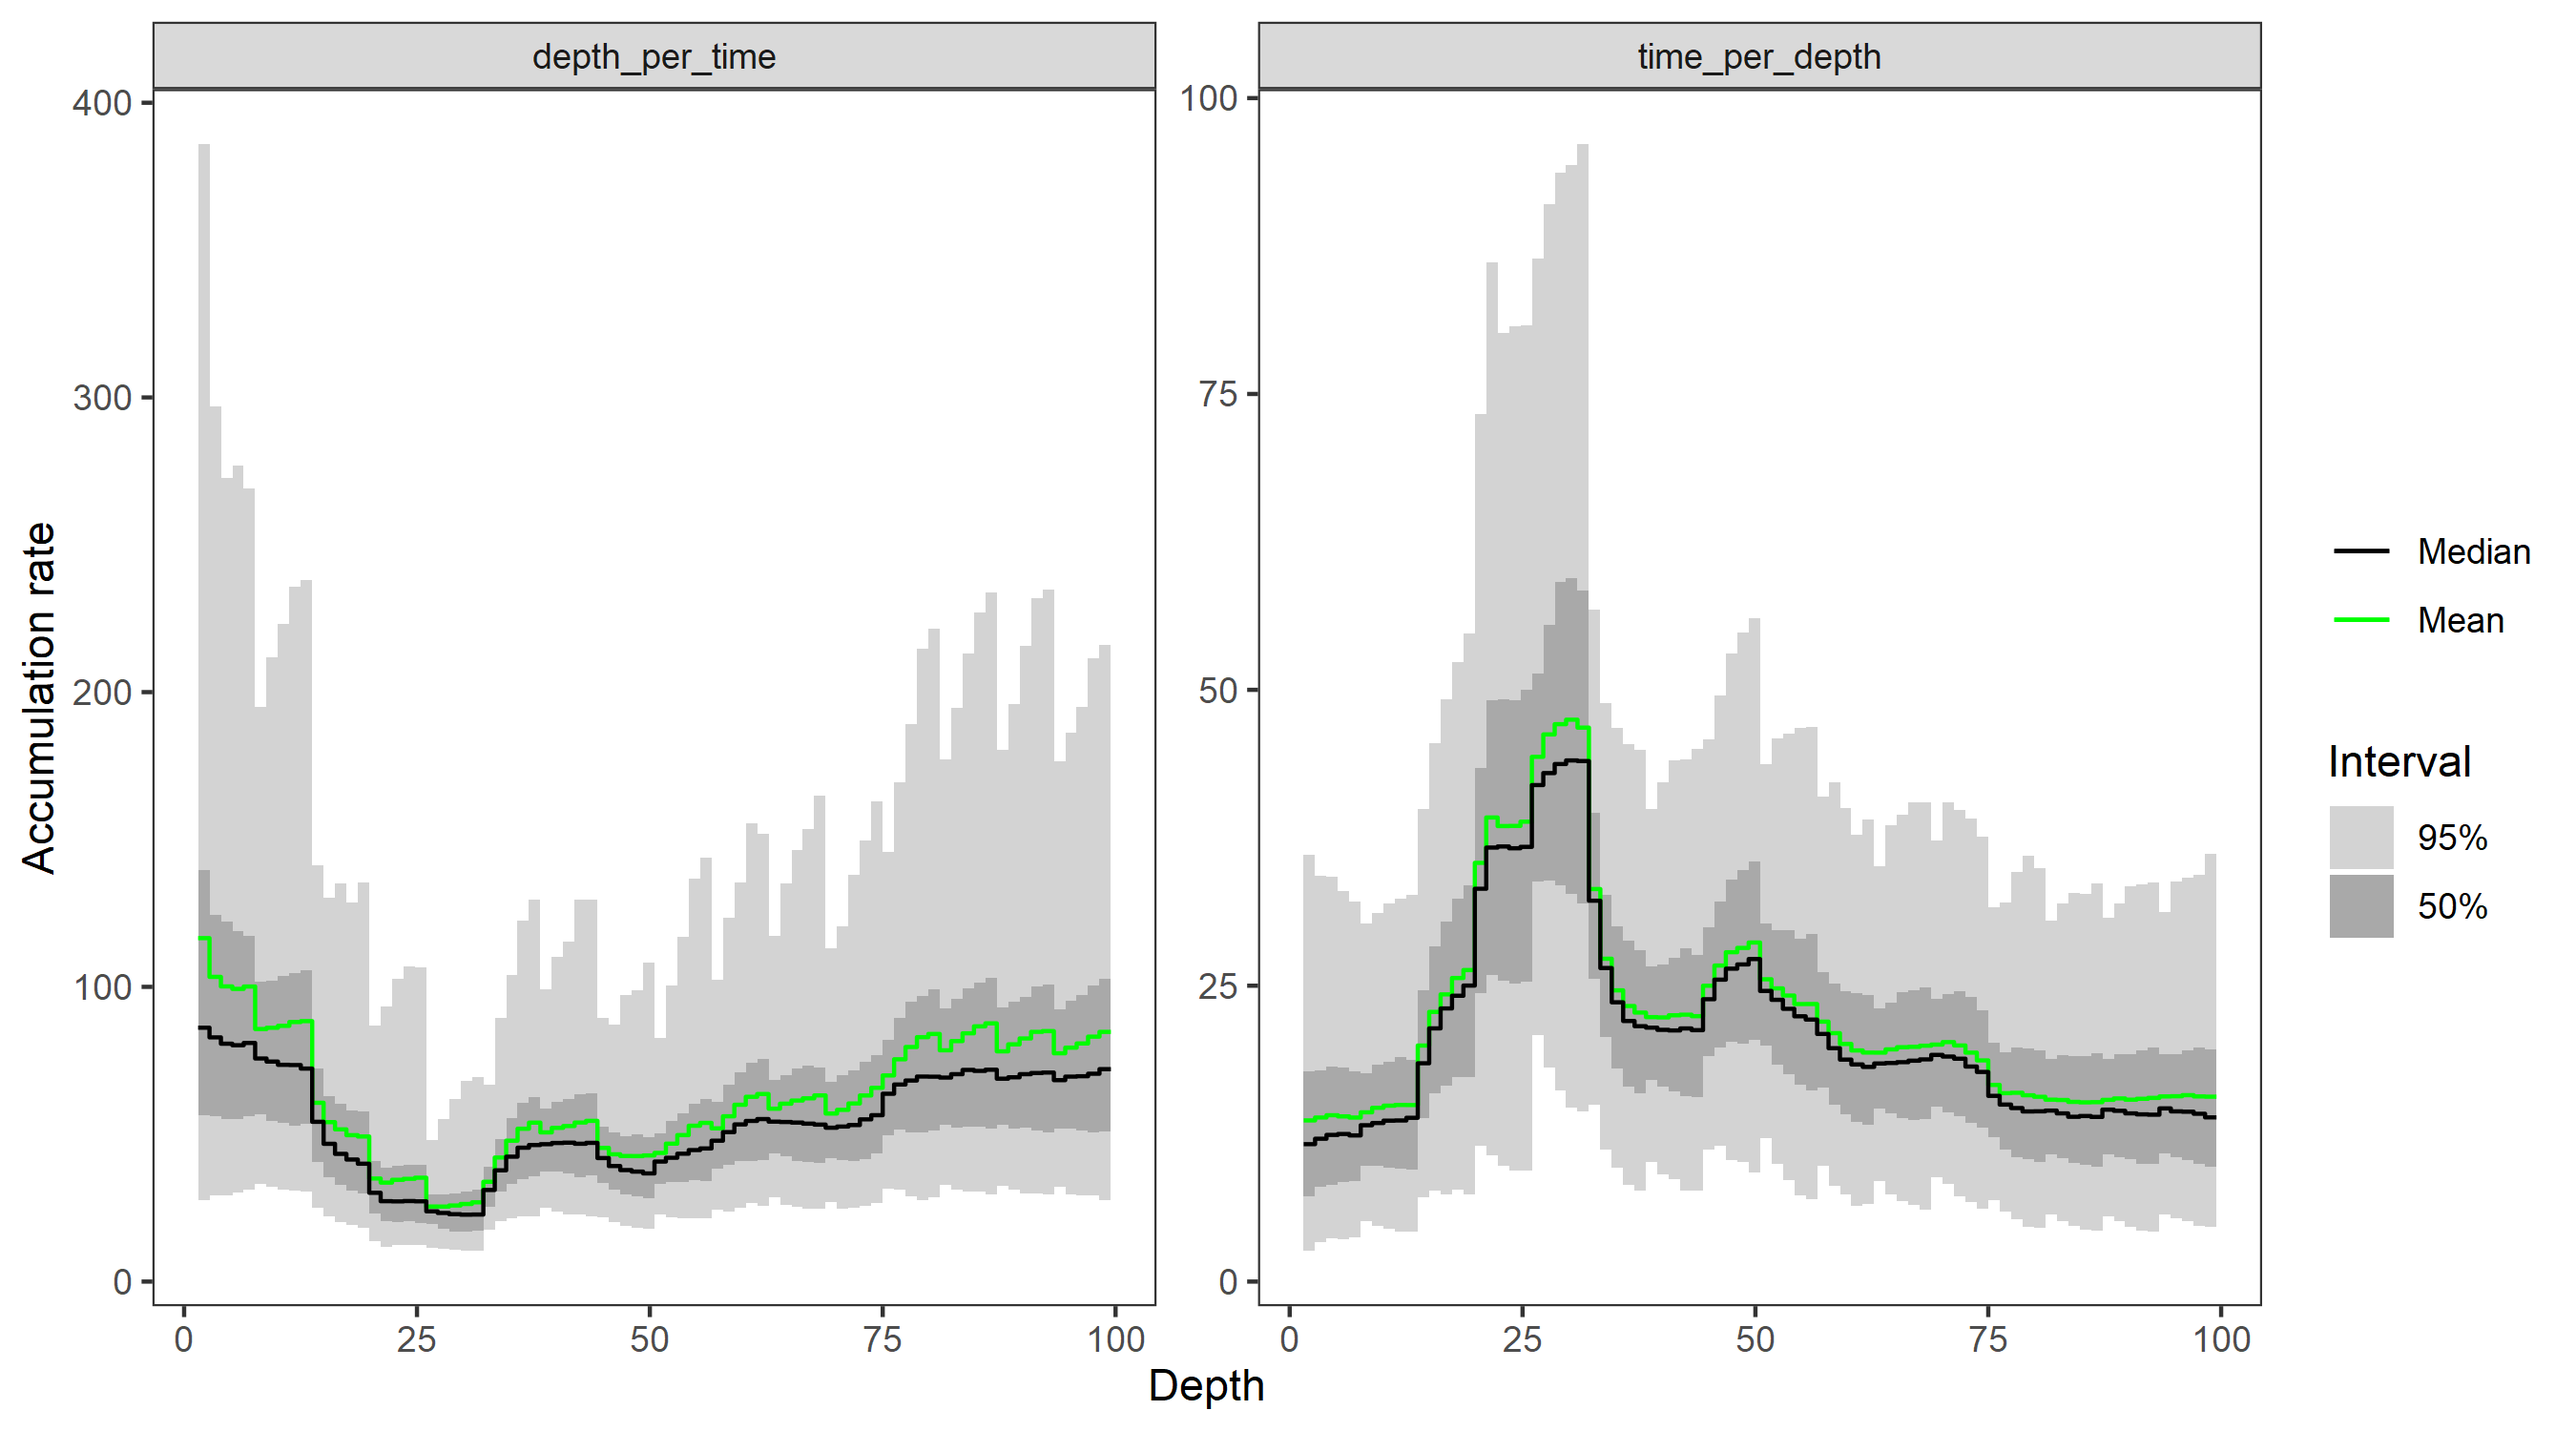
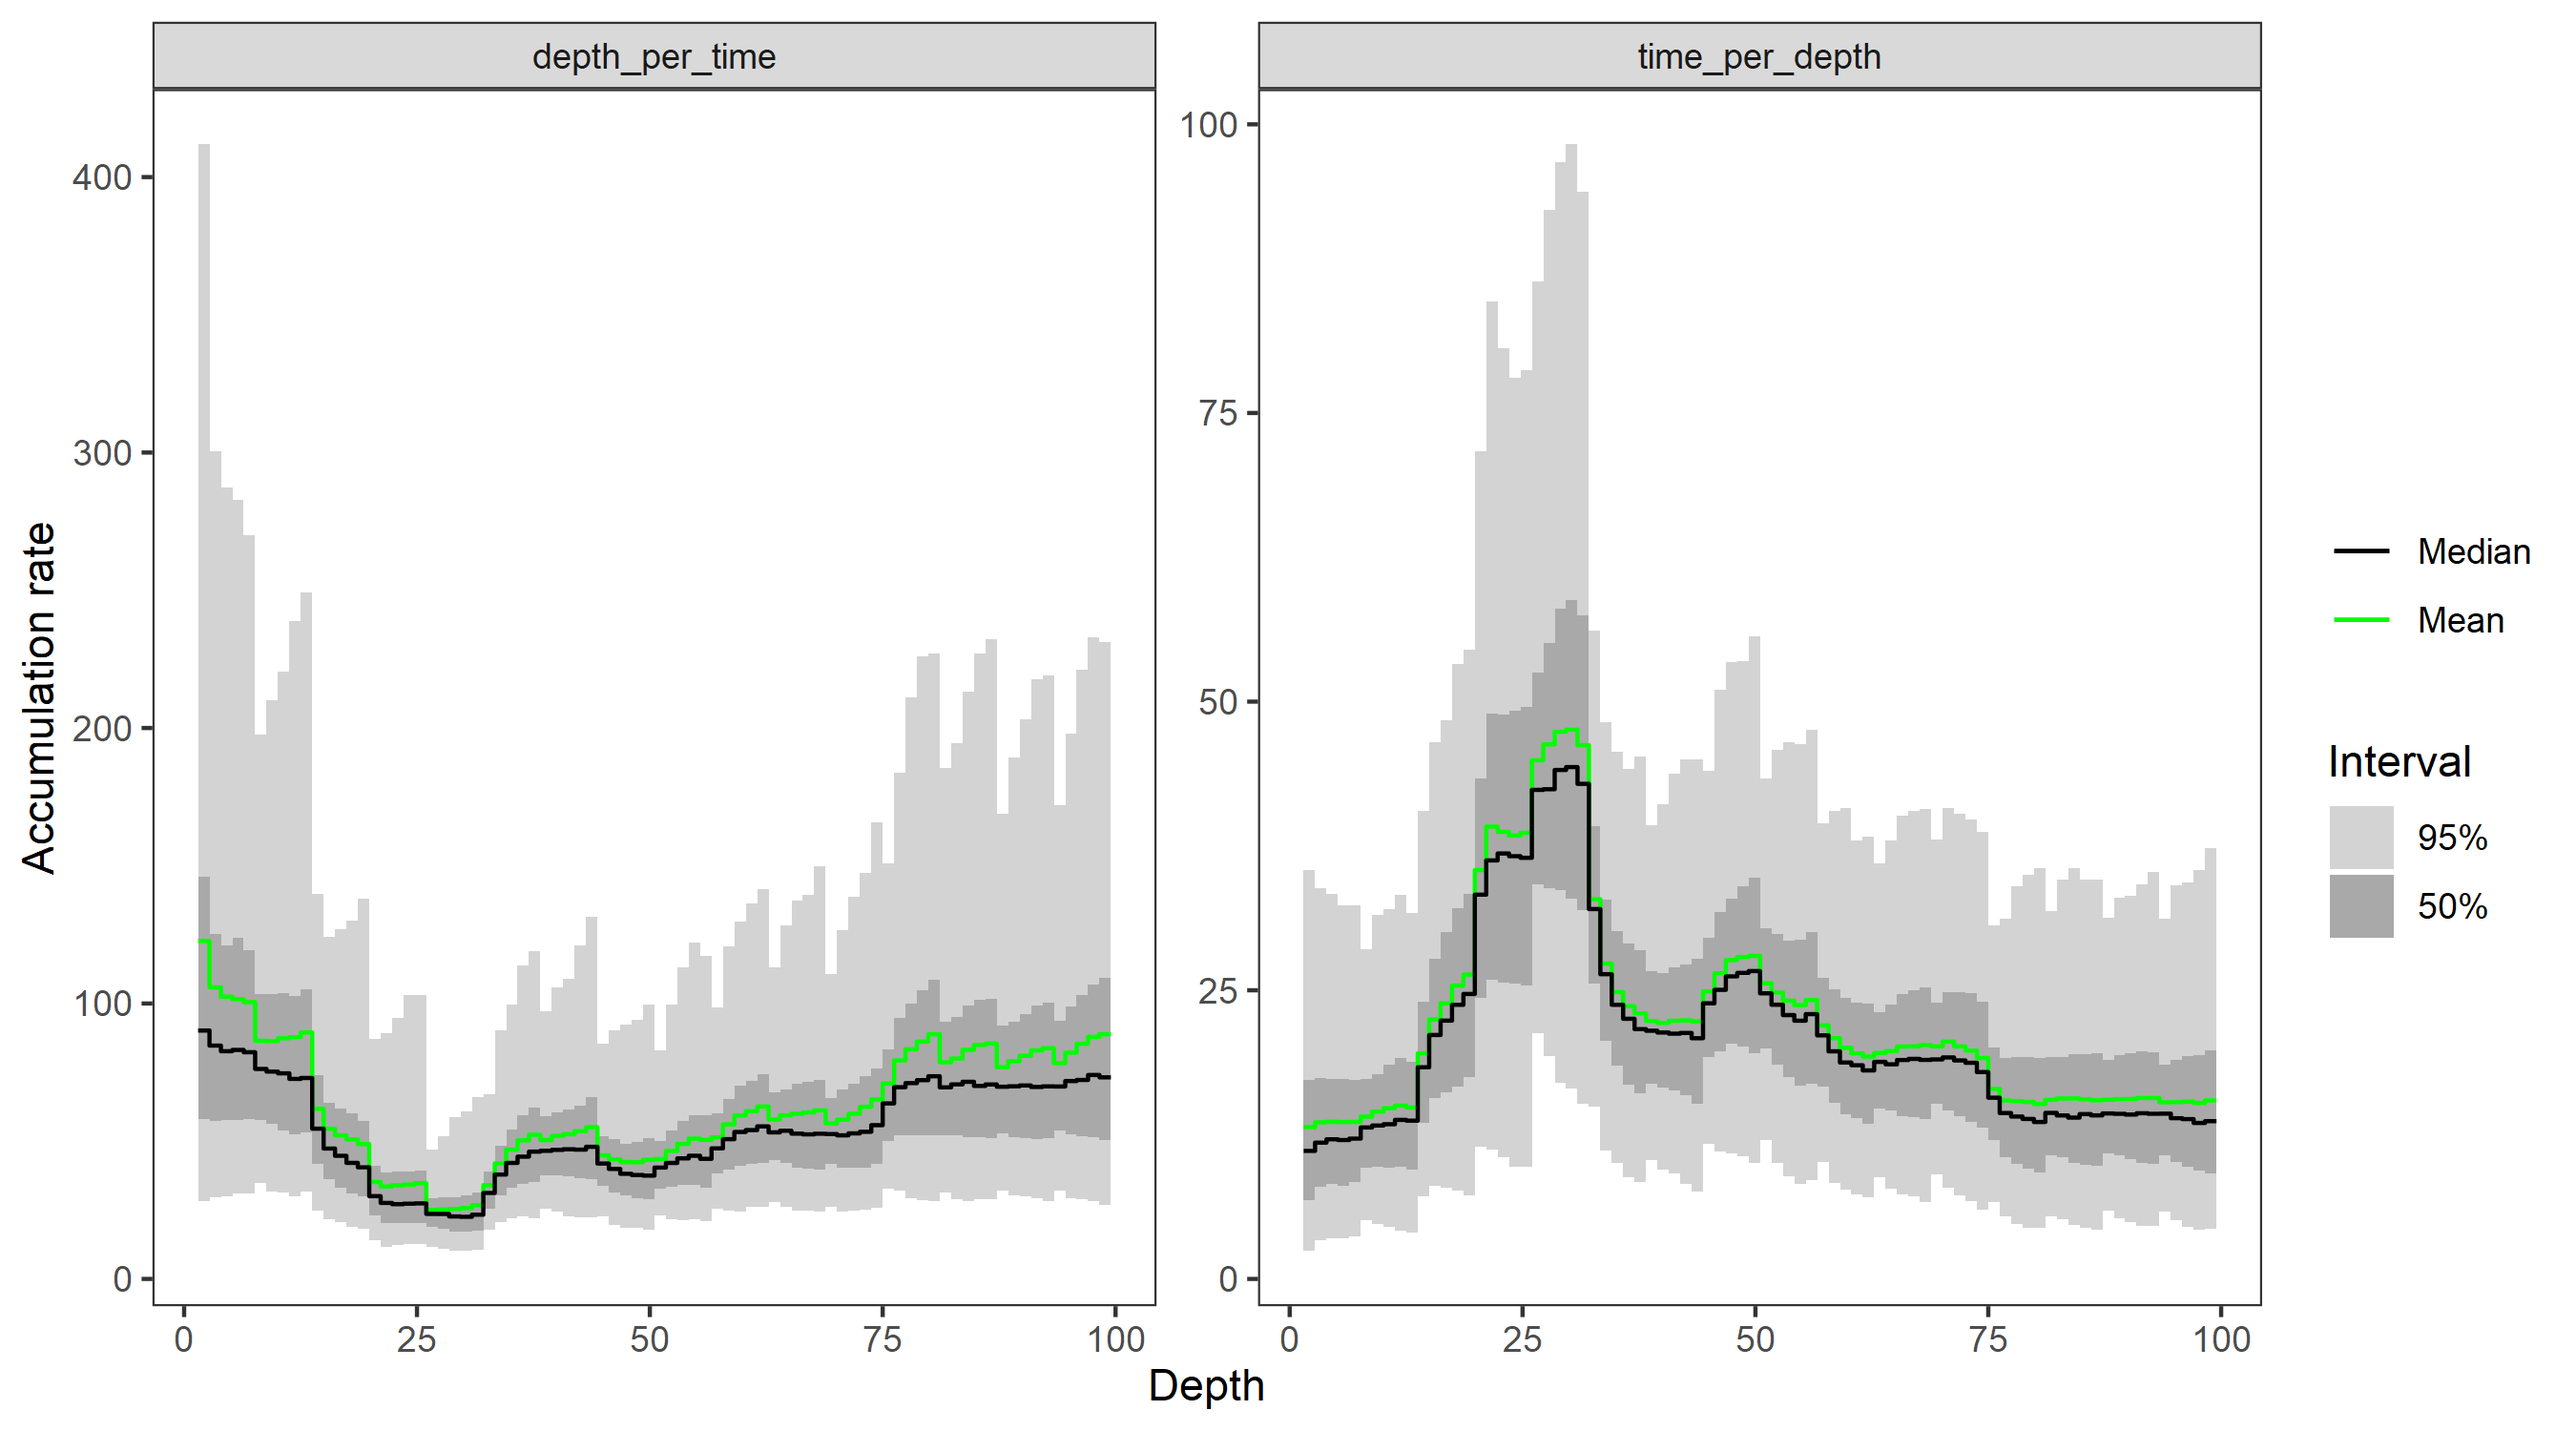
re-run readme

diff --git a/README.md b/README.md
@@ -101,9 +101,6 @@ passed as arguments to the function.
 hamstr_fit_1 <- hamstr(depth = MSB2K_cal$depth,
                        obs_age = MSB2K_cal$age.14C.cal,
                        obs_err = MSB2K_cal$age.14C.cal.se)
-#> Warning: There were 2623 transitions after warmup that exceeded the maximum treedepth. Increase max_treedepth above 10. See
-#> http://mc-stan.org/misc/warnings.html#maximum-treedepth-exceeded
-#> Warning: Examine the pairs() plot to diagnose sampling problems
 ```
 
 The default plotting method shows the fitted age models together with
@@ -228,16 +225,16 @@ predict(hamstr_fit_1)
 #> # A tibble: 243,000 x 3
 #>     iter depth   age
 #>    <int> <dbl> <dbl>
-#>  1     1  1.5  4541.
-#>  2     1  2.72 4556.
-#>  3     1  3.95 4571.
-#>  4     1  5.18 4583.
-#>  5     1  6.4  4598.
-#>  6     1  7.62 4613.
-#>  7     1  8.85 4633.
-#>  8     1 10.1  4664.
-#>  9     1 11.3  4697.
-#> 10     1 12.5  4725.
+#>  1     1  1.5  4551.
+#>  2     1  2.72 4555.
+#>  3     1  3.95 4561.
+#>  4     1  5.18 4568.
+#>  5     1  6.4  4577.
+#>  6     1  7.62 4583.
+#>  7     1  8.85 4591.
+#>  8     1 10.1  4602.
+#>  9     1 11.3  4609.
+#> 10     1 12.5  4629.
 #> # ... with 242,990 more rows
 ```
 
@@ -248,16 +245,16 @@ summary(hamstr_fit_1)
 #> # A tibble: 81 x 13
 #>    depth   idx par     mean se_mean    sd `2.5%` `25%` `50%` `75%` `97.5%` n_eff
 #>    <dbl> <dbl> <chr>  <dbl>   <dbl> <dbl>  <dbl> <dbl> <dbl> <dbl>   <dbl> <dbl>
-#>  1  1.5      1 c_age~ 4507.   2.21   67.7  4355. 4466. 4512. 4553.   4628.  941.
-#>  2  2.72     2 c_age~ 4524.   2.01   62.2  4388. 4485. 4527. 4565.   4637.  956.
-#>  3  3.95     3 c_age~ 4541.   1.81   57.7  4419. 4506. 4543. 4579.   4648. 1019.
-#>  4  5.18     4 c_age~ 4558.   1.63   54.1  4444. 4524. 4559. 4595.   4660. 1101.
-#>  5  6.4      5 c_age~ 4575.   1.45   51.4  4471. 4542. 4577. 4610.   4673. 1255.
-#>  6  7.62     6 c_age~ 4592.   1.29   49.8  4489. 4560. 4593. 4626.   4687. 1483.
-#>  7  8.85     7 c_age~ 4610.   1.15   47.1  4513. 4578. 4610. 4642.   4699. 1676.
-#>  8 10.1      8 c_age~ 4628.   1.06   44.2  4538. 4599. 4627. 4658.   4711. 1758.
-#>  9 11.3      9 c_age~ 4646.   0.959  42.0  4562. 4618. 4645. 4675.   4727. 1922.
-#> 10 12.5     10 c_age~ 4664.   0.900  40.8  4582. 4636. 4664. 4692.   4744. 2059.
+#>  1  1.5      1 c_age~ 4511.   2.53   67.5  4358. 4471. 4515. 4558.   4629.  711.
+#>  2  2.72     2 c_age~ 4527.   2.29   62.3  4392. 4490. 4529. 4570.   4637.  739.
+#>  3  3.95     3 c_age~ 4544.   2.07   57.8  4420. 4507. 4546. 4584.   4649.  782.
+#>  4  5.18     4 c_age~ 4560.   1.88   54.3  4444. 4526. 4562. 4598.   4661.  837.
+#>  5  6.4      5 c_age~ 4577.   1.71   51.6  4469. 4544. 4578. 4612.   4673.  905.
+#>  6  7.62     6 c_age~ 4594.   1.59   49.8  4490. 4562. 4595. 4627.   4688.  976.
+#>  7  8.85     7 c_age~ 4611.   1.44   47.2  4515. 4580. 4612. 4643.   4703. 1078.
+#>  8 10.1      8 c_age~ 4629.   1.25   44.4  4540. 4599. 4630. 4658.   4716. 1270.
+#>  9 11.3      9 c_age~ 4647.   1.07   42.0  4563. 4618. 4647. 4675.   4730. 1539.
+#> 10 12.5     10 c_age~ 4665.   0.939  40.5  4585. 4637. 4665. 4693.   4745. 1866.
 #> # ... with 71 more rows, and 1 more variable: Rhat <dbl>
 ```
 
@@ -282,14 +279,14 @@ summary(age.mods.interp)
 #>    <dbl> <dbl> <dbl>  <dbl> <dbl> <dbl> <dbl>   <dbl>
 #>  1     0   NA   NA      NA    NA    NA    NA      NA 
 #>  2     1   NA   NA      NA    NA    NA    NA      NA 
-#>  3     2 4514.  65.3  4368. 4474. 4518. 4557.   4631.
-#>  4     3 4528.  61.1  4395. 4490. 4531. 4569.   4640.
-#>  5     4 4541.  57.6  4419. 4506. 4544. 4580.   4648.
-#>  6     5 4556.  54.5  4440. 4521. 4557. 4593.   4658.
-#>  7     6 4569.  52.1  4462. 4536. 4571. 4605.   4668.
-#>  8     7 4583.  50.4  4480. 4552. 4584. 4618.   4681.
-#>  9     8 4597.  48.9  4498. 4566. 4597. 4631.   4691.
-#> 10     9 4612.  46.7  4517. 4581. 4612. 4644.   4700.
+#>  3     2 4517.  65.2  4373. 4478. 4521. 4563.   4631.
+#>  4     3 4531.  61.2  4397. 4494. 4533. 4573.   4639.
+#>  5     4 4544.  57.7  4421. 4508. 4546. 4585.   4649.
+#>  6     5 4558.  54.7  4440. 4524. 4560. 4595.   4659.
+#>  7     6 4571.  52.3  4462. 4538. 4573. 4607.   4669.
+#>  8     7 4585.  50.5  4480. 4553. 4586. 4619.   4680.
+#>  9     8 4599.  48.9  4498. 4568. 4600. 4632.   4691.
+#> 10     9 4613.  46.8  4519. 4583. 4614. 4644.   4704.
 #> # ... with 91 more rows
 ```
 
@@ -314,16 +311,16 @@ summary(hamstr_fit_1, type = "acc_rates")
 #> # A tibble: 160 x 12
 #>    depth c_depth_top c_depth_bottom acc_rate_unit   idx  mean    sd `2.5%` `25%`
 #>    <dbl>       <dbl>          <dbl> <chr>         <dbl> <dbl> <dbl>  <dbl> <dbl>
-#>  1  1.5         1.5            2.72 depth_per_ti~     1 117.  104.    27.7  56.4
-#>  2  2.72        2.72           3.95 depth_per_ti~     2 103.   85.4   29.1  56.1
-#>  3  3.95        3.95           5.18 depth_per_ti~     3 100.   75.6   29.2  55.1
-#>  4  5.18        5.18           6.4  depth_per_ti~     4  99.3  79.1   30.3  55.3
-#>  5  6.4         6.4            7.62 depth_per_ti~     5 100.   91.8   31.2  56.3
-#>  6  7.62        7.62           8.85 depth_per_ti~     6  85.7  45.4   33.0  56.9
-#>  7  8.85        8.85          10.1  depth_per_ti~     7  86.1  49.4   32.1  54.5
-#>  8 10.1        10.1           11.3  depth_per_ti~     8  86.8  52.0   31.3  53.9
-#>  9 11.3        11.3           12.5  depth_per_ti~     9  88.1  60.1   30.9  52.7
-#> 10 12.5        12.5           13.8  depth_per_ti~    10  88.4  57.3   30.6  53.5
+#>  1  1.5         1.5            2.72 depth_per_ti~     1 123.  112.    28.2  58.0
+#>  2  2.72        2.72           3.95 depth_per_ti~     2 106.   80.0   29.5  57.5
+#>  3  3.95        3.95           5.18 depth_per_ti~     3 102.   75.3   30.0  57.7
+#>  4  5.18        5.18           6.4  depth_per_ti~     4 102.   70.5   30.9  57.7
+#>  5  6.4         6.4            7.62 depth_per_ti~     5 100.   72.6   30.9  58.1
+#>  6  7.62        7.62           8.85 depth_per_ti~     6  86.5  43.5   35.0  57.8
+#>  7  8.85        8.85          10.1  depth_per_ti~     7  86.4  48.5   31.7  56.3
+#>  8 10.1        10.1           11.3  depth_per_ti~     8  87.4  56.8   31.2  53.9
+#>  9 11.3        11.3           12.5  depth_per_ti~     9  87.8  59.6   30.1  52.3
+#> 10 12.5        12.5           13.8  depth_per_ti~    10  89.5  59.4   31.6  53.3
 #> # ... with 150 more rows, and 3 more variables: 50% <dbl>, 75% <dbl>,
 #> #   97.5% <dbl>
 ```
